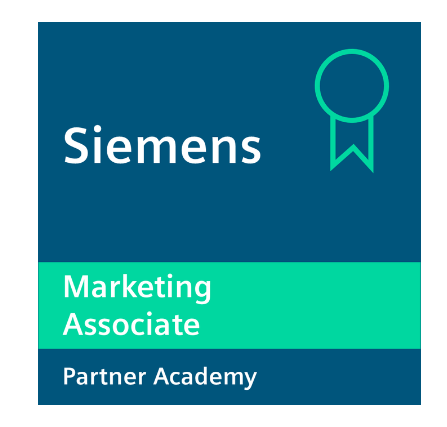
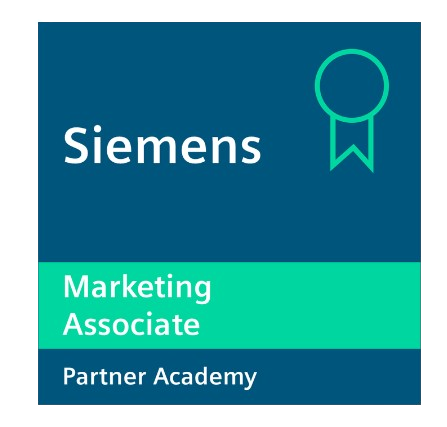
removed background from credly images

diff --git a/index.html b/index.html
@@ -222,10 +222,10 @@
           <img src="./assets/img/customerAssociate.png"  class="licenses__img" alt="2023 Siemens Digital Industries Software Customer Success Associate Certificate"/>
           </a>
           <a href="https://www.credly.com/badges/5b1fe801-d808-4b6f-8cc9-13db1d51b12b" target="_blank">
-          <img src="./assets/img/Services-associate.png"  class="licenses__img" alt="2024 Services Associate Certificate" width="150" height="150"/>
+          <img src="./assets/img/services-credly.png"  class="licenses__img" alt="2024 Services Associate Certificate" width="150" height="150"/>
           </a>
           <a href="https://www.credly.com/badges/e38893f1-1ca2-4c47-8e34-48a162a8afec" target="_blank">
-          <img src="./assets/img/technical-support.png"  class="licenses__img" alt="2024 Technical Support Associate Certificate" width="150" height="150"/>
+          <img src="./assets/img/technical-support-credly.png"  class="licenses__img" alt="2024 Technical Support Associate Certificate" width="150" height="150"/>
           </a>
           <a href="https://skillsoft.digitalbadges.skillsoft.com/15adbd2c-f44b-441d-8ea1-d8a94f01df40" target="_blank">
             <img src="./assets/img/scienceofcomms.png"  class="licenses__img" alt="The Art and Science of Communication" width="150" height="150"/> 
